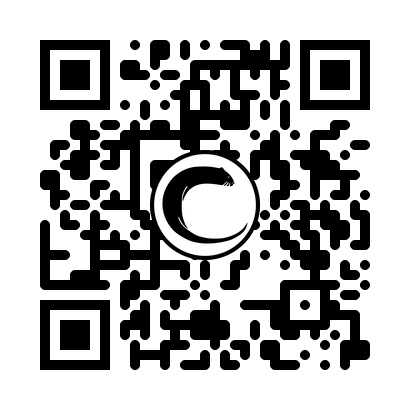
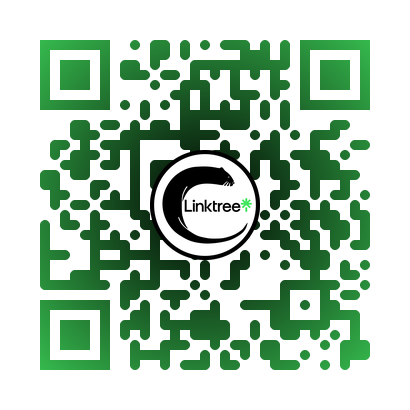
Update linktree

diff --git a/QQR.py b/QQR.py
@@ -49,12 +49,12 @@ qr = qrcode.QRCode(error_correction=qrcode.constants.ERROR_CORRECT_H)
 qr.add_data("https://linktr.ee/curieosity")
 img = qr.make_image(
     image_factory=StyledPilImage,
-    embeded_image_path="./logo.png",
+    embeded_image_path="./logoLinktree.png",
     module_drawer=RoundedModuleDrawer(1),
     color_mask=RadialGradiantColorMask(
         back_color=(255, 255, 255),
         center_color=(0, 0, 0),
-        edge_color=(0, 0, 0),
+        edge_color=(67, 230, 96),
     ),
 )
 img.save("QQRcode_linktree.png")
